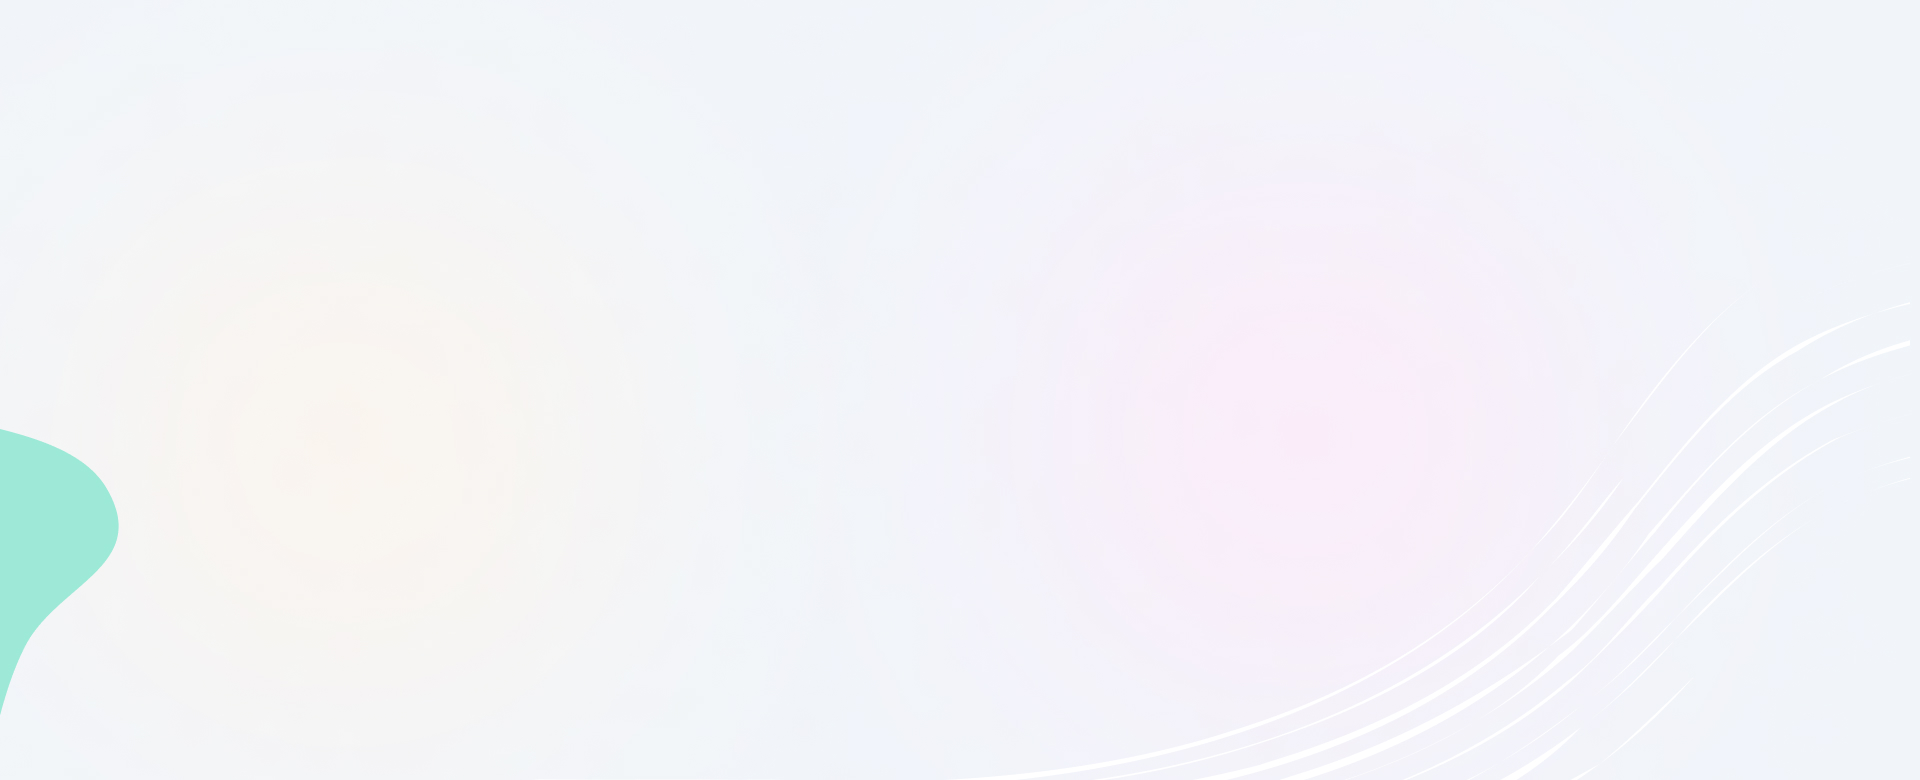
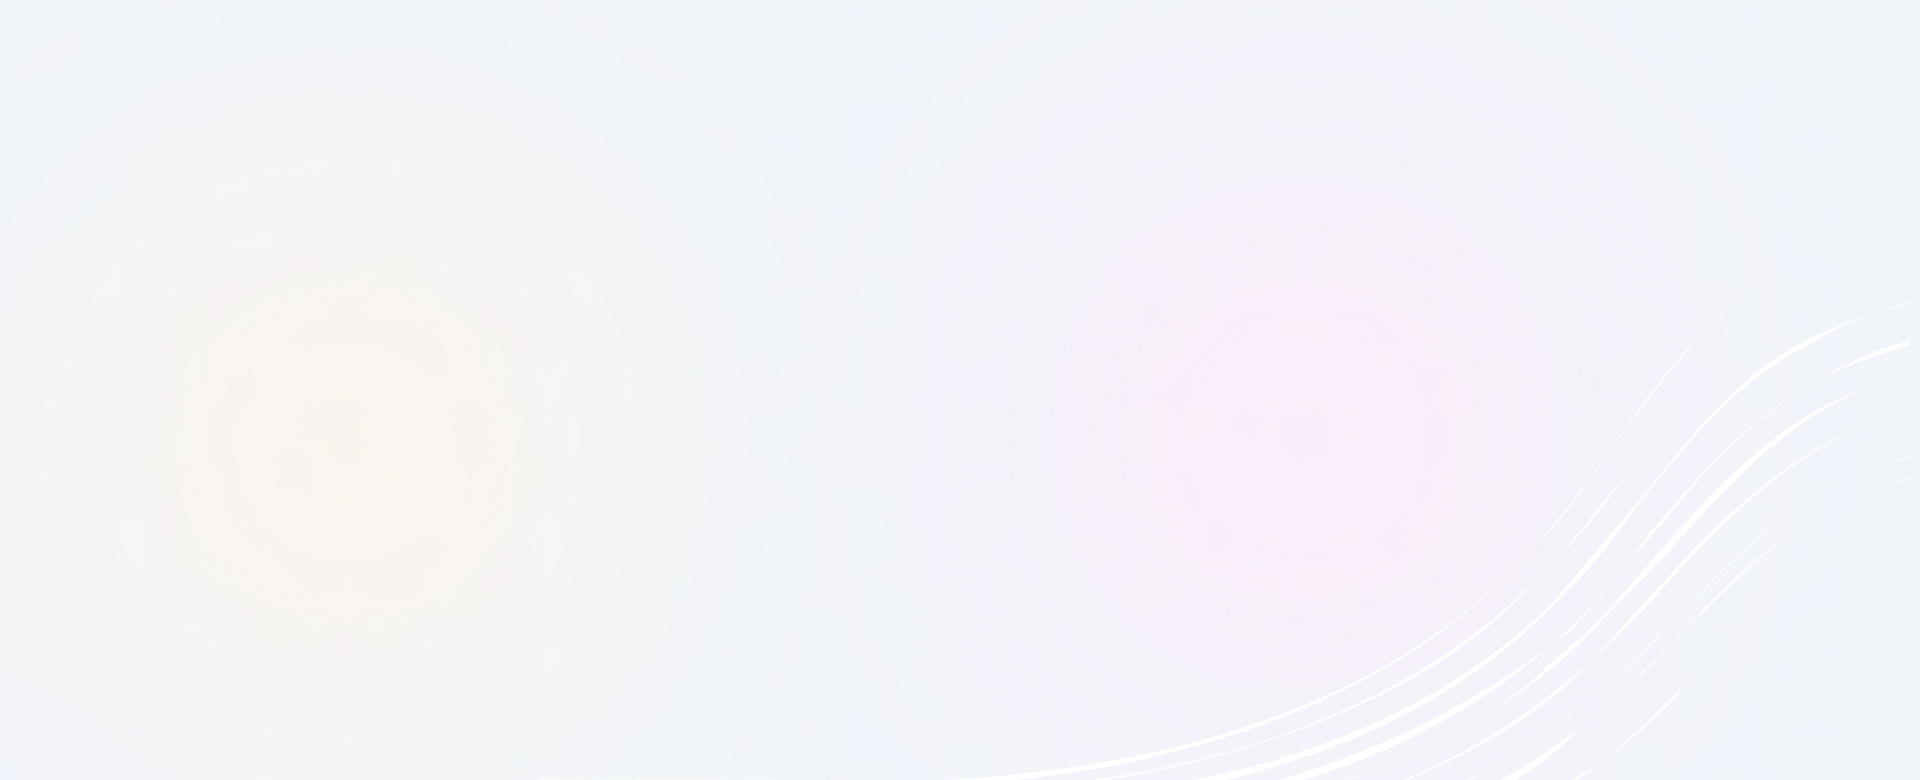
replace the content

Changed region(s): [[0.0, 0.5538, 0.0625, 0.8923]]

diff --git a/components/sections/Banner1.js b/components/sections/Banner1.js
@@ -9,13 +9,13 @@ export default function Banner1() {
                         <div className="col-lg-6">
                             <div className="banner__content">
                           
-                                <span className="sub-title" data-aos="fade-right" data-aos-delay={200}>100% Satisfaction
+                                <span className="sub-title">100% Satisfaction
                                     Guarantee</span>
-                                <h3 className="title tg-svg" data-aos="fade-right" data-aos-delay={400}>Make Acquiring  <span className="position-relative"><span className="svg-icon" id="svg-2" data-svg-icon="assets/img/icons/title_shape.svg" />Skills</span>Online Worthwhile</h3>
-                                <p data-aos="fade-right" data-aos-delay={600}>Career progression in 12–16 weeks with capstone and industry feedback.
+                                <h3 className="title tg-svg">Make Acquiring  <span className="position-relative"><span className="svg-icon" id="svg-2" data-svg-icon="assets/img/icons/title_shape.svg" />Skills</span>Online Worthwhile</h3>
+                                <p data-aos-delay={600}>Career progression in 12–16 weeks with capstone and industry feedback.
                                     Get certified by <strong> India’s No. 1 Private University - Shoolini University.</strong>
                                 </p>
-                                <div className="banner__btn-wrap" data-aos="fade-right" data-aos-delay={800}>
+                                <div className="banner__btn-wrap">
                                     <div className="tg-button-wrap">
                                         <Link href="/courses" className="btn tg-svg"><span className="text">Explore Courses</span>
                                             <span className="svg-icon" id="svg-1" data-svg-icon="assets/img/icons/btn-arrow.svg" /></Link>
@@ -32,9 +32,9 @@ export default function Banner1() {
                         </div>
                         <div className="col-lg-6">
                             <div className="banner__images">
-                                <img src="/assets/img/banner/bg-image.png" alt="img" className="main-img" />
+                                <img src="/assets/img/banner/banner_img1.png" alt="img" className="main-img" />
                                                               
-                                <div className="banner__fact">
+                                {/* <div className="banner__fact">
                                     <div className="banner__fact-item">
                                         <div className="icon">
                                             <i className="flaticon-group" />
@@ -53,7 +53,7 @@ export default function Banner1() {
                                             <h4 className="count">34K</h4>
                                         </div>
                                     </div>
-                                </div>
+                                </div> */}
                             </div>
                         </div>
                     </div>

diff --git a/public/assets/css/main.css b/public/assets/css/main.css
@@ -2229,7 +2229,7 @@ textarea {
     position: relative;
 }
 .banner__images .main-img {
-    max-width: 140%;
+    max-width: 100%;
     position: relative;
     left: -100px;
 }
